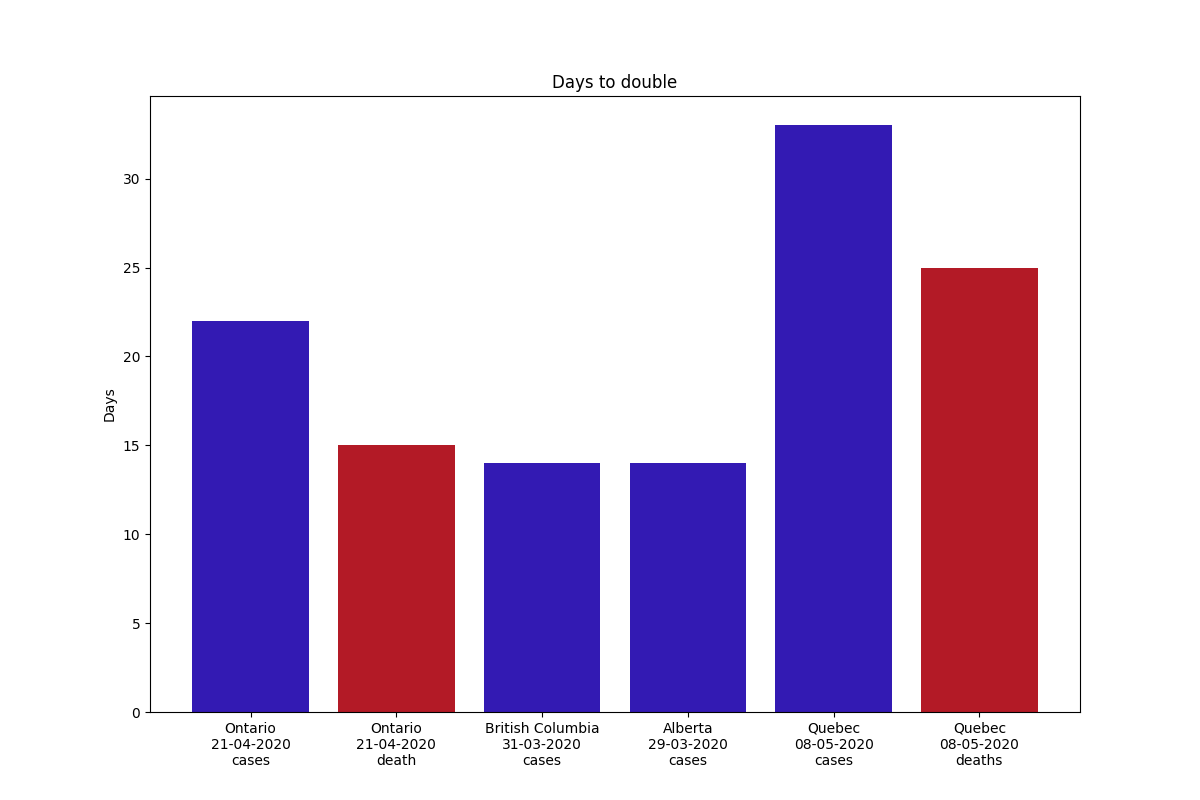
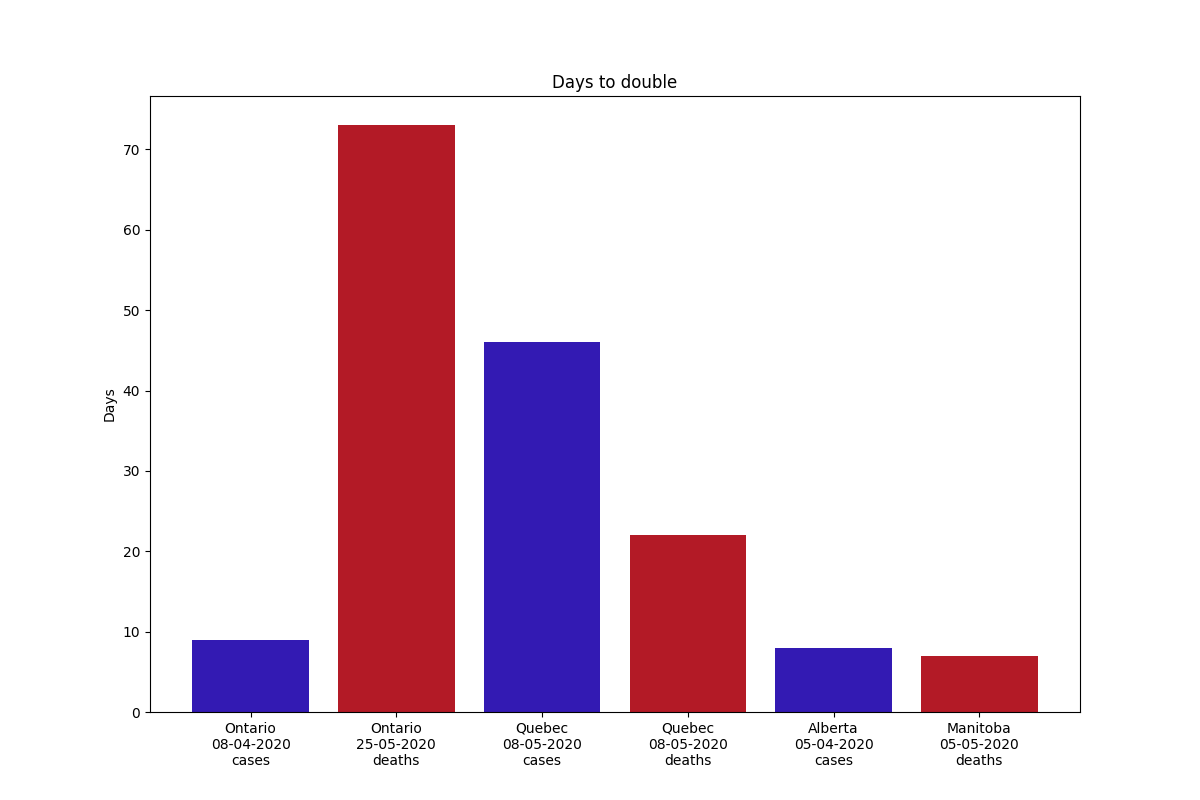
changed task 5 calculation from average of cases to average increase in cases

diff --git a/task5.py b/task5.py
@@ -87,31 +87,50 @@ else:
 #-----------------------------------------FUNCTIONS-----------------------------------------------#
 
 
-#the function takes a dataframe as an input and returns average increase of the last 7days
-def average(DF):
-	avg=0 #setting an initial value of avg variable.
+#the function calculates how much more or less cases/deaths are increasing compared to the previous day for 7days
+def averageIncrease():
+	currentTotal=provinceDF.iloc[indexOfGivenDate-8] #setting total of the given date to a variable
+	if(casesOrDeath=='cases'): #checking if the input is cases or deaths
+		currentTotal=currentTotal['numtoday']
+	else:
+		currentTotal=currentTotal['deathstoday']
+
+	increaseRate=0 #setting an initial value of increaseRate variable.
 
 	for i, row in sevenDaysDF.iterrows(): #loop to iterate over 7days of data
 		if(casesOrDeath=='cases'): #checking weather to get case rate or death rate
-			avg=avg+row['numtoday'] #sum of total case increase each day
+			increaseRate=increaseRate+(row['numtoday']-currentTotal)
+			currentTotal=row['numtoday']
 		else:
-			avg=avg+row['deathstoday'] #sum of total death increase each day
-	if(avg==0): #checking if average 0
-		avg=0 #setting to zero 
+			increaseRate=increaseRate+(row['deathstoday']-currentTotal)
+			currentTotal=row['deathstoday']
+	if(increaseRate==0): #checking if average 0
+		increaseRate=0 #setting to zero 
 	else:
-		avg=avg/len(sevenDaysDF) #getting the average of the increase case/death in past 7days from the given date
-	return avg
+		increaseRate=increaseRate/len(sevenDaysDF) #getting the average of the increase case/death in past 7days from the given date
+	return int(round(increaseRate))
 
 
-#the function calculates the doubling days from the average and the current number of cases/deaths of the given date
-def predictDoublingDays(avg, currentNumber):
-	if(avg==0): #checking if avg is 0
-		return 0 #if avg is 0 that means it hasnt increased at all in 7days so at that rate it wont ever double up
-	doublingDays=int(round(currentNumber/avg)) #calculating how many days it will take to double up
-	if (doublingDays==0): #checking if the doubling days is 0 
-		doublingDays=1 #if the doubling days is 0 it should say it takes 1day to double
-	return int(round(currentNumber/avg))
 
+#the function calculates the doubling days from the increase rate and the current number of cases/deaths of the given date
+def predictDoublingDays(increaseRate, total):
+	#setting initial values
+	days=0 
+	currentNew=provinceDF.iloc[indexOfGivenDate] 
+	currentTotal=total
+
+	if(casesOrDeath=='cases'): #checking weather to get case rate or death rate
+		currentNew=currentNew['numtoday']
+	else:
+		currentNew=currentNew['deathstoday']
+	
+	#loop to iterate until cases/deaths double up
+	while currentTotal < total*2:
+		currentNew=currentNew+increaseRate #adding new case/death of previous day plus average increase rate.
+		currentTotal=currentTotal+currentNew #adding the new predicted with the total case
+		days=days+1 #if its not doubled yet than it will add 1 to the days
+	
+	return days
 
 #--------------------------------------FUNCTIONS END---------------------------------------------#
 
@@ -120,9 +139,9 @@ def predictDoublingDays(avg, currentNumber):
 
 #--------------------------------------DIVER PROGRAM---------------------------------------------#
 
-avg=average(sevenDaysDF) #getting the average
-doublingDays=predictDoublingDays(avg,int(caseOrDeathTotal)) #getting the doubling days of cases from the function
-
+increaseRate=averageIncrease() #getting the average
+doublingDays=predictDoublingDays(increaseRate,int(caseOrDeathTotal)) #getting the doubling days of cases from the function
+print("Days to double:", doublingDays) #showing output
 
 #--------------------------------------DIVER PROGRAM END----------------------------------------#
 
@@ -134,15 +153,16 @@ doublingDays=predictDoublingDays(avg,int(caseOrDeathTotal)) #getting the doublin
 #storing the outputs into a file
 if(os.path.exists("storage.txt")): #checking if file already exists
 	with open('storage.txt', 'a') as f: #if it exists opening with append
-		f.write(str(date)+","+str(province)+","+str(casesOrDeath)+","+str(caseOrDeathTotal)+","+str(int(round(avg)))+","+str(doublingDays)) #storing necessary info
+		f.write(str(date)+","+str(province)+","+str(casesOrDeath)+","+str(caseOrDeathTotal)+","+str(int(round(increaseRate)))+","+str(doublingDays)) #storing necessary info
 		f.write("\n")
 		f.close()
 else:
 	with open('storage.txt', 'w+') as f: #if file doesnt exist creating file
 		f.write("date,province,cases/deaths,total,rate_of_spread,days_to_double") #adding columns on top of the file
 		f.write("\n")
-		f.write(str(date)+","+str(province)+","+str(casesOrDeath)+","+str(caseOrDeathTotal)+","+str(int(round(avg)))+","+str(doublingDays)) #storing necessary info
+		f.write(str(date)+","+str(province)+","+str(casesOrDeath)+","+str(caseOrDeathTotal)+","+str(int(round(increaseRate)))+","+str(doublingDays)) #storing necessary info
 		f.write("\n")
 		f.close()
-	
+
+print("Data stored in storage.txt..")
 #--------------------------------------STORAGE END---------------------------------------------#

diff --git a/task6.py b/task6.py
@@ -39,3 +39,5 @@ plt.savefig('doublingdays') #saving the figure
 
 
 #------------------------------------DATA PLOTTING END------------------------------------#
+
+
